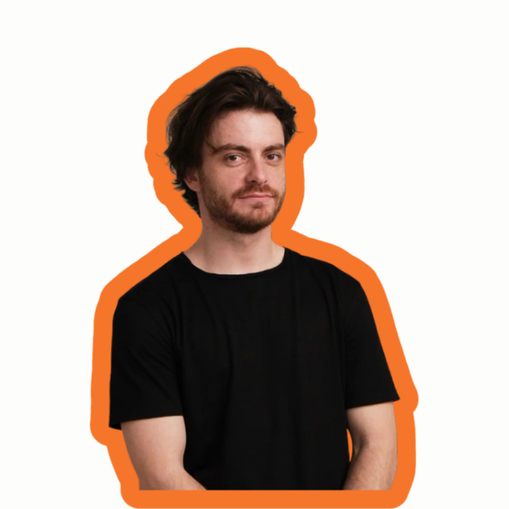
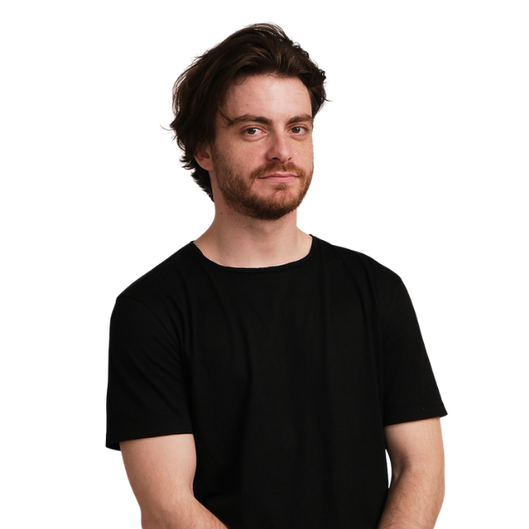
updates photos

Changed region(s): [[0.1768, 0.0295, 0.8546, 1.0], [0.2947, 0.7957, 0.3536, 0.8251]]

diff --git a/src/pages/Despre.tsx b/src/pages/Despre.tsx
@@ -6,7 +6,7 @@ import Title from "../components/layouts/Title";
 import TeamMemberCard from "../components/cards/TeamMemberCard";
 import { ITeamMember } from "../types/cards/ITeamMember";
 import IMAGES from "../assets/Images";
-import { FadeInViewPortAnimation, FadeInAnimation } from "../components/animations/Animations";
+import { FadeInViewPortAnimation } from "../components/animations/Animations";
 import BannerTextAbsolute from "../components/layouts/BannerTextAbsolute";
 
 import "../css/despre.css";
@@ -21,7 +21,7 @@ const MisiuneSection: React.FC = () => {
         <BannerTextAbsolute
           imageURL={IMAGES.team}
           direction="left"
-          className="h-[32vw] mb-20 mb:mb-10 mb:h-auto"
+          className="h-[35vw] mb-20 mb:mb-10 mb:h-auto"
           title="buluc"
         >
           <p className="">
@@ -32,7 +32,7 @@ const MisiuneSection: React.FC = () => {
         <BannerTextAbsolute
           imageURL={IMAGES.misiune}
           direction="right"
-          className="h-[32vw] mb-20 mb:mb-10 mb:h-auto"
+          className="h-[35vw] mb-20 mb:mb-10 mb:h-auto"
           title="misiune"
         >
           <p className="">
@@ -95,7 +95,7 @@ const People = ({ members, title }: { members: ITeamMember[], title: string }) =
         <Title title={title} position="start" />
       </div>
     </motion.div>
-    <div id="members" className="grid gap-8 grid-cols-1 sm:grid-cols-2 md:grid-cols-3 my-8">
+    <div id="members" className="grid gap-12 grid-cols-1 sm:grid-cols-2 md:grid-cols-3 my-8">
       {members.map((member, index) => (
         <TeamMemberCard
           key={index}
@@ -165,6 +165,34 @@ const teamMembers: ITeamMember[] = [
   },
 
   {
+    imageSrc: IMAGES.echipaIonutTerteci,
+    name: "Ionuț Terteci",
+    role: "actor & artist videograf",
+    color: 'orange',
+  },
+
+  {
+    imageSrc: IMAGES.echipaAndreeaIstrate,
+    name: "Andreea Istrate",
+    role: "teatrolog & coordonator event",
+    color: 'orange',
+  },
+
+  {
+    imageSrc: IMAGES.echipaAlexandraFlorian,
+    name: "Alexandra Florian",
+    role: "web developer",
+    color: 'red',
+  },
+
+  {
+    imageSrc: IMAGES.echipaAdreeaD,
+    name: "Andreea Preda",
+    role: "graphic designer & illustrator",
+    color: 'orange',
+  },
+
+  {
     imageSrc: IMAGES.echipaAndrei,
     name: "Andrei Atabay",
     role: "actor",
@@ -179,13 +207,6 @@ const teamMembers: ITeamMember[] = [
   },
 
   {
-    imageSrc: IMAGES.echipaVictoras,
-    name: "Matei Victoras",
-    role: "actor",
-    color: 'orange',
-  },
-
-    {
     imageSrc: IMAGES.echipaValentina,
     name: "Valentina Boldurescu",
     role: "actriță",
@@ -193,30 +214,9 @@ const teamMembers: ITeamMember[] = [
   },
 
   {
-    imageSrc: IMAGES.echipaIonutTerteci,
-    name: "Ionuț Terteci",
-    role: "actor & artist videograf",
-    color: 'orange',
-  },
-
-  {
-    imageSrc: IMAGES.echipaAlexandraFlorian,
-    name: "Alexandra Florian",
-    role: "web developer",
-    color: 'red',
-  },
-
-  {
-    imageSrc: IMAGES.echipaAndreeaIstrate,
-    name: "Andreea Istrate",
-    role: "teatrolog & coordonator event",
-    color: 'orange',
-  },
-
-  {
-    imageSrc: IMAGES.echipaAdreeaD,
-    name: "Andreea Preda",
-    role: "graphic designer & illustrator",
+    imageSrc: IMAGES.echipaVictoras,
+    name: "Matei Victoras",
+    role: "actor",
     color: 'orange',
   },
 ];
@@ -231,10 +231,6 @@ const parteneri = [
   {
     id: 1,
     link: 'https://www.moaraghionea.ro/',
-  },
-  {
-    id: 2,
-    link: "https://carolia.ro/",
   },
   {
     id: 3,
@@ -263,10 +259,6 @@ const parteneri = [
   {
     id: 9,
     link: "https://solarisplant.ro/",
-  },
-  {
-    id: 11,
-    link: "https://www.artsafari.ro/",
   },
   {
     id: 12,

diff --git a/src/assets/Images.tsx b/src/assets/Images.tsx
@@ -21,7 +21,6 @@ const IMAGES = {
     echipaRobertCiupitu: new URL('/src/assets/images/culise/echipa/robert.png', import.meta.url).href,
     echipaMarilenaAdam: new URL('/src/assets/images/culise/echipa/mari.png', import.meta.url).href,
     echipaIonutTerteci: new URL('/src/assets/images/culise/echipa/ionut.png', import.meta.url).href,
-    echipaStefaniaTecher: new URL('/src/assets/images/culise/echipa/stefi.png', import.meta.url).href,
     echipaAndreeaIstrate: new URL('/src/assets/images/culise/echipa/andreea.png', import.meta.url).href,
     echipaAlexandraFlorian: new URL('/src/assets/images/culise/echipa/alexandra.png', import.meta.url).href,
     echipaAndrei: new URL('/src/assets/images/culise/echipa/andrei.png', import.meta.url).href,
@@ -30,12 +29,11 @@ const IMAGES = {
     echipaVictoras: new URL('/src/assets/images/culise/echipa/victoras.png', import.meta.url).href,
     echipaValentina: new URL('/src/assets/images/culise/echipa/valentina.png', import.meta.url).href,
     team: new URL('/src/assets/images/culise/team.webp', import.meta.url).href,
-    misiune: new URL('/src/assets/images/culise/misiune.webp', import.meta.url).href,
+    misiune: new URL('/src/assets/images/culise/misiune.jpg', import.meta.url).href,
 
 
     //parteneri
     partener0: new URL('/src/assets/images/culise/parteneri/0.png', import.meta.url).href,
-    partener1: new URL('/src/assets/images/culise/parteneri/1.png', import.meta.url).href,
     partener2: new URL('/src/assets/images/culise/parteneri/2.png', import.meta.url).href,
     partener3: new URL('/src/assets/images/culise/parteneri/3.png', import.meta.url).href,
     partener4: new URL('/src/assets/images/culise/parteneri/4.png', import.meta.url).href,
@@ -43,7 +41,6 @@ const IMAGES = {
     partener6: new URL('/src/assets/images/culise/parteneri/6.png', import.meta.url).href,
     partener7: new URL('/src/assets/images/culise/parteneri/7.png', import.meta.url).href,
     partener8: new URL('/src/assets/images/culise/parteneri/8.png', import.meta.url).href,
-    partener10: new URL('/src/assets/images/culise/parteneri/10.png', import.meta.url).href,
     partener11: new URL('/src/assets/images/culise/parteneri/11.png', import.meta.url).href,
     // in sufragerie
     cover1: new URL('/src/assets/images/in-sufragerie/concerte/cover1.webp', import.meta.url).href,
@@ -62,9 +59,10 @@ const IMAGES = {
     CYImage8: new URL('/src/assets/images/challenge/challenge-yourself/image8.webp', import.meta.url).href,
     CYImage9: new URL('/src/assets/images/challenge/challenge-yourself/image9.webp', import.meta.url).href,
     CYImage10: new URL('/src/assets/images/challenge/challenge-yourself/image10.webp', import.meta.url).href,
-    CYTeam1: new URL('/src/assets/images/challenge/challenge-yourself/team1.webp', import.meta.url).href,
-    CYTeam2: new URL('/src/assets/images/challenge/challenge-yourself/team2.webp', import.meta.url).href,
+    CYTeam1: new URL('/src/assets/images/challenge/challenge-yourself/team1.jpg', import.meta.url).href,
+    CYTeam2: new URL('/src/assets/images/challenge/challenge-yourself/team2.jpg', import.meta.url).href,
     CYTeam3: new URL('/src/assets/images/challenge/challenge-yourself/team3.jpeg', import.meta.url).href,
+    CYTeamTrainers: new URL('/src/assets/images/challenge/challenge-yourself/team_trainers.jpg', import.meta.url).href,
     CYTeam4: new URL('/src/assets/images/challenge/challenge-yourself/vale.webp', import.meta.url).href,
     CYTeam5: new URL('/src/assets/images/challenge/challenge-yourself/ioana.webp', import.meta.url).href,
     CYTeam6: new URL('/src/assets/images/challenge/challenge-yourself/andrei.webp', import.meta.url).href,

diff --git a/src/pages/ChallengeYourself.tsx b/src/pages/ChallengeYourself.tsx
@@ -145,13 +145,15 @@ export default function ChallengeYourself() {
 
       <div className="mx-[12%] mb:mx-[6%]">
         <FadeInViewPortAnimation className="">
-          <div className="bg-white br shadow-lg p-10 mb:mb-6">
-            <h3 className="text-red">
-              Traineri
-            </h3>
 
-            <p className=""> Pe Madrid, 4 te vei întâlni cu <span className="font-bold">Robert şi Mella</span> sau <span className="font-bold">Lixi şi Andrei</span>. Cei 4 traineri au absolvit Universitatea Națională de Artă Teatrală și Cinematografică "I.L. Caragiale", București și în prezent sunt actori și pedagogi teatrali. Cu o experiență de peste 6 ani în cadrul cursurilor de dezvoltare personală pentru adulţi, adolescenți dar şi pentru copii.</p>
-          </div>
+          <BannerTextAbsolute
+            imageURL={IMAGES.CYTeamTrainers}
+            direction="right"
+            className="h-[40vw] mb-20 mb:mb-10 mb:h-auto"
+            title="Traineri"
+          >
+            <p className=""> Pe Madrid, 4 te vei întâlni cu <span className="font-bold">Robert, Mella, Valentina, Victoraş, Lixi şi Andrei</span>.Toți au absolvit Universitatea Națională de Artă Teatrală și Cinematografică "I.L. Caragiale", București și în prezent sunt actori și pedagogi teatrali. Cu o experiență de peste 6 ani în cadrul cursurilor de dezvoltare personală pentru adulţi, adolescenți dar şi pentru copii.</p>
+          </BannerTextAbsolute>
 
           <div id="members" className="flex mb:inline gap-10 mb:gap-20 justify-center my-10">
             <TeamMemberCard
@@ -247,6 +249,7 @@ export default function ChallengeYourself() {
 
               <ul className="list-star pl-8">
                 <li>modulul de incepatori durează 3 luni: 4 ședințe /lună, câte 1/săptămână</li>
+                <li> plata per ședință, indiferent de numărul de ședințe frecventate (1, 2 sau mai multe), nu este posibilă</li>
                 <li>funcționează ca un abonament: ședințele pierdute nu se pot recupera la o altǎ grupǎ</li>
                 <li>după modulul de incepatori - poți continua la avansați</li>
                 <li>clasele de avansați sunt concepute într-un modul continuu de învățare & explorare</li>

diff --git a/src/components/cards/TeamMemberCard.tsx b/src/components/cards/TeamMemberCard.tsx
@@ -26,7 +26,7 @@ const TeamMemberCard: React.FC<ITeamMember> = ({ imageSrc, name, role, color, fo
       transition={{ duration: 0.5 }}
     >
       <div className="round-image-container relative">
-        <div className="image-circle bg-cover bg-no-repeat bg-center" style={{ backgroundImage: `url(${imageSrc})` }}>
+        <div className="image-circle bg-cover bg-no-repeat bg-center bg-white" style={{ backgroundImage: `url(${imageSrc})` }}>
           <div className="circle" onMouseEnter={handleMouseEnter} onMouseLeave={handleMouseLeave} ref={circleRef}>
             <div className={`image-dot bg-${color}`} ref={dotRef}></div>
           </div>
